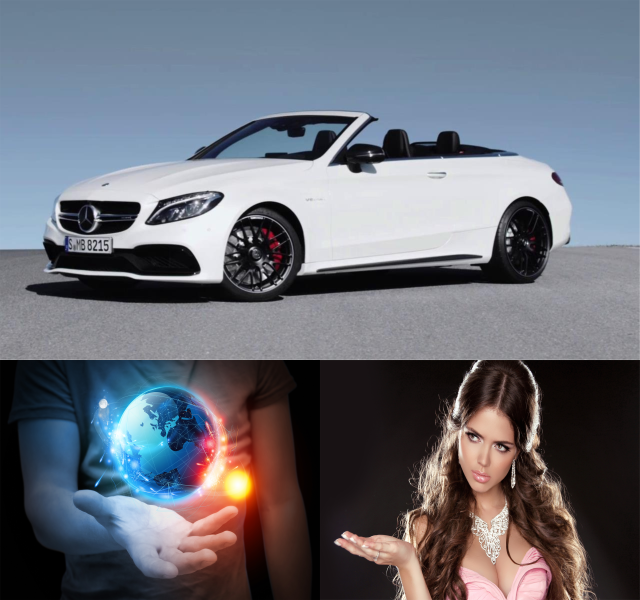
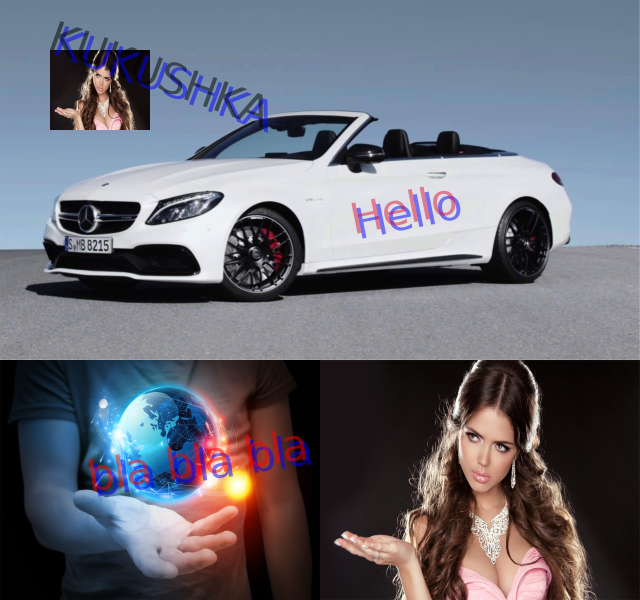
upload

Changed region(s): [[0.0625, 0.03, 0.4375, 0.24], [0.125, 0.72, 0.5, 0.84], [0.5312, 0.3, 0.7188, 0.39]]

diff --git a/lib/functions.js b/lib/functions.js
@@ -8,40 +8,101 @@ var Promise = require('bluebird')
  * draw  and save images into a png stream
 */
 
-function drawedImagesStream (params) {
-  var img = new Canvas.Image
-  var canvas = new Canvas(params[0].fileWidth, params[0].fileHeight)
+function drawedImagesStream (layers, canvasOption) {
+  var img = new Canvas.Image()
+  var canvas = new Canvas(canvasOption.destWidth, canvasOption.destHeight)
   var ctx = canvas.getContext('2d')
-
-  return Promise.map(params, function (item) {
-    img.src = __dirname + '/../' + config.uploadPath + item.path
-    ctx.drawImage(img, item.coords[0], item.coords[1], item.width , item.height)
+  return Promise.map(layers, function (item) {
+    img.src = __dirname + '/..' + config.uploadPath + item.imagePath
+    ctx.drawImage(img, item.coords[0], item.coords[1], item.width, item.height)
     var stream = canvas.pngStream()
-    return {stream, fileName: item.fileName}
+    return stream
   })
 }
+
+function createImageFromText (data, canvasOption) {
+  var canvas = new Canvas(canvasOption.destWidth, canvasOption.destHeight)
+  var ctx = canvas.getContext('2d')
+  ctx.font = data.textData.size + ' Impact'
+  ctx.rotate(data.textData.rotate)
+  ctx.shadowColor = data.textData.shadowColor
+  ctx.shadowOffsetX = data.textData.offsetX
+  ctx.shadowOffsetY = data.textData.offsetY
+  ctx.globalAlpha = data.textData.opacity
+  ctx.fillStyle = data.textData.color
+  ctx.fillText(data.textData.text, data.coords[0], data.coords[1])
+  var stream = canvas.pngStream()
+  var tmpFileName = config.tmpImagePrefix + data.order + '.png'
+  return writeTextToImage(stream, tmpFileName)
+}
+
+/*
+*  draw rotated image
+*/
+
+// function drawRotatedImage (image, x, y, angle) {
+//   context.translate(x, y)
+//   context.rotate(angle)
+//   context.drawImage(image, image.width, image.height)
+// }
 
 /*
  *  write an joined images into a file
 */
 
-function writeImageToDisk (data) {
-  var out = fs.createWriteStream(__dirname + '/../' + config.uploadPath + data.fileName)
+function writeTextToImage (stream, fileName) {
+  var out = fs.createWriteStream(__dirname + '/../' + config.uploadPath + fileName)
   return new Promise(function (resolve, reject) {
-    data.stream.on('data', function (add) {
+    stream.on('data', function (add) {
       out.write(add)
     })
-    data.stream.on('end', function () {
+    stream.on('end', function () {
+      console.log('end')
+      return resolve(fileName)
+    })
+    stream.on('error', function (error) {
+      console.log('error')
+      return reject(error)
+    })
+  }).delay(1000)
+}
+
+function writeImageToDisk (stream, destName) {
+  var out = fs.createWriteStream(__dirname + '/../' + config.uploadPath + destName)
+  return new Promise(function (resolve, reject) {
+    stream.on('data', function (add) {
+      out.write(add)
+    })
+    stream.on('end', function () {
       return resolve(true)
     })
-    data.stream.on('error', function () {
-      return reject(false)
+    stream.on('error', function (error) {
+      return reject(error)
     })
+  })
+}
+
+function convertTextLayerToImageLayer (layer, canvasOption) {
+  return createImageFromText(layer, canvasOption).then(function (fileName) {
+    if (!fileName) {
+      return null
+    }
+    return {imagePath: fileName, coords: [0, 0], width: canvasOption.destWidth, height: canvasOption.destHeight, order: layer.order}
+  })
+}
+
+function getLayers (params) {
+  return Promise.map(params.layers, function (layer) {
+    if (layer.textData) {
+      return convertTextLayerToImageLayer(layer, params.canvasOption)
+    }
+    return layer
   })
 }
 
 module.exports = {
   drawedImagesStream: drawedImagesStream,
-  writeImageToDisk: writeImageToDisk
-
+  writeImageToDisk: writeImageToDisk,
+  writeTextToImage: writeTextToImage,
+  getLayers: getLayers
 }

diff --git a/routes/index.js b/routes/index.js
@@ -1,25 +1,81 @@
 var express = require('express')
 var router = express.Router()
 var url = require('url')
+var request = require('request')
 var Promise = require('bluebird')
 var lib = require('../lib/functions.js')
 var env = process.env.NODE_ENV || 'development'
 var config = require(__dirname + '/../config/config.json')[env]
 
-var params = [
-  {path: 'img1.jpg', coords: [0, 0], width: 640, height: 360,  fileName: 'out.png', fileWidth: 640, fileHeight: 600},
-  {path: 'img2.jpg', coords: [0, 360], width: 320,  height: 240, fileName: 'out.png', fileWidth: 640, fileHeight: 600},
-  {path: 'img3.jpg', coords: [320, 360], width: 320, height: 240, fileName: 'out.png', fileWidth: 640, fileHeight: 600}
-]
+var params = {
+  canvasOption: {
+    destName: 'out.png',
+    destWidth: 640,
+    destHeight: 600
+  },
+  layers: [
+    {imagePath: 'img1.jpg', coords: [0, 0], width: 640, height: 360, order: 1},
+    {imagePath: 'img2.jpg', coords: [0, 360], width: 320, height: 240, order: 2},
+    {imagePath: 'img3.jpg', coords: [320, 360], width: 320, height: 240, order: 3},
+    {imagePath: 'img3.jpg', coords: [50, 50], width: 100, height: 80, order: 4},
+    {textData: {
+        text: 'bla bla bla',
+        size: '32pt',
+        color: 'red',
+        opacity: '0.5',
+        shadowColor: '#0000FF',
+        offsetX: '5',
+        offsetY: '5',
+        rotate: -0.15
+      },
+      coords: [15, 500],
+      order: 5
+    },
+    {
+      textData: {
+        text: 'KUKUSHKA',
+        size: '32pt',
+        color: '#000',
+        opacity: '0.5',
+        shadowColor: '#0000FF',
+        offsetX: '5',
+        offsetY: '5',
+        rotate: 0.35
+      },
+      coords: [60, 30],
+      order: 6
+    },
+
+    {
+      textData: {
+        text: 'Hello',
+        size: '32pt',
+        color: '#DC143C',
+        opacity: '0.5',
+        shadowColor: '#0000FF',
+        offsetX: '5',
+        offsetY: '5',
+        rotate: -0.2
+      },
+      coords: [300, 300],
+      order: 7
+    }
+  ]
+}
 
 router.get('/', function (req, res) {
-  if (params.length < 1) {
+  if (params.length < 1 && params.layers.length < 1) {
     return res.json({status: 'error', message: 'Params is empty'})
   }
-  return lib.drawedImagesStream(params).then(function (streams) {
-    return Promise.map(streams, lib.writeImageToDisk)
-  }).then(function (result) {
-    return res.json({status: result ? 'ok' : 'error'})
+
+  return lib.getLayers(params).then(function (layers) {
+    return lib.drawedImagesStream(layers, params.canvasOption).then(function (streams) {
+      return Promise.map(streams, function (item) {
+        lib.writeImageToDisk(item, params.canvasOption.destName)
+      })
+    }).then(function (result) {
+      return res.json({status: result ? 'ok' : 'error'})
+    })
   })
 })
 
